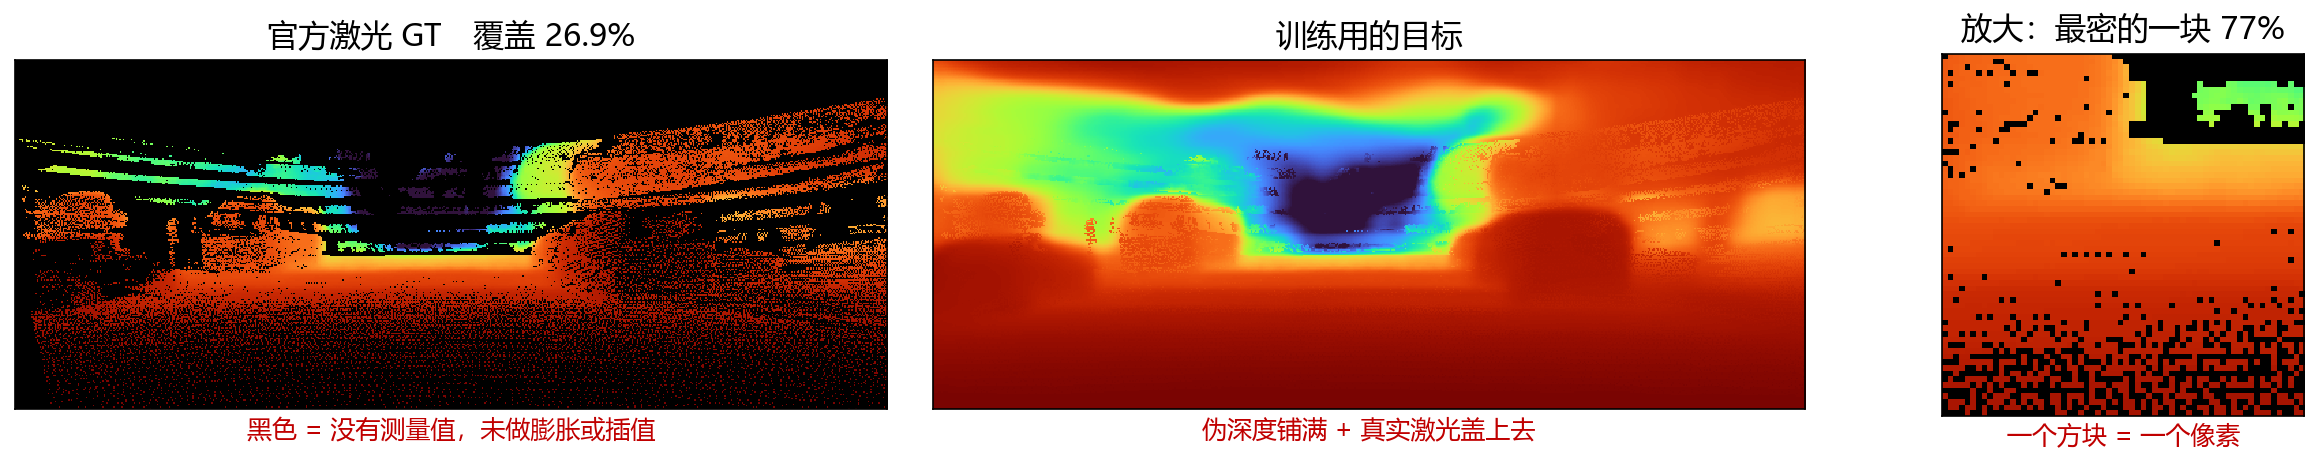
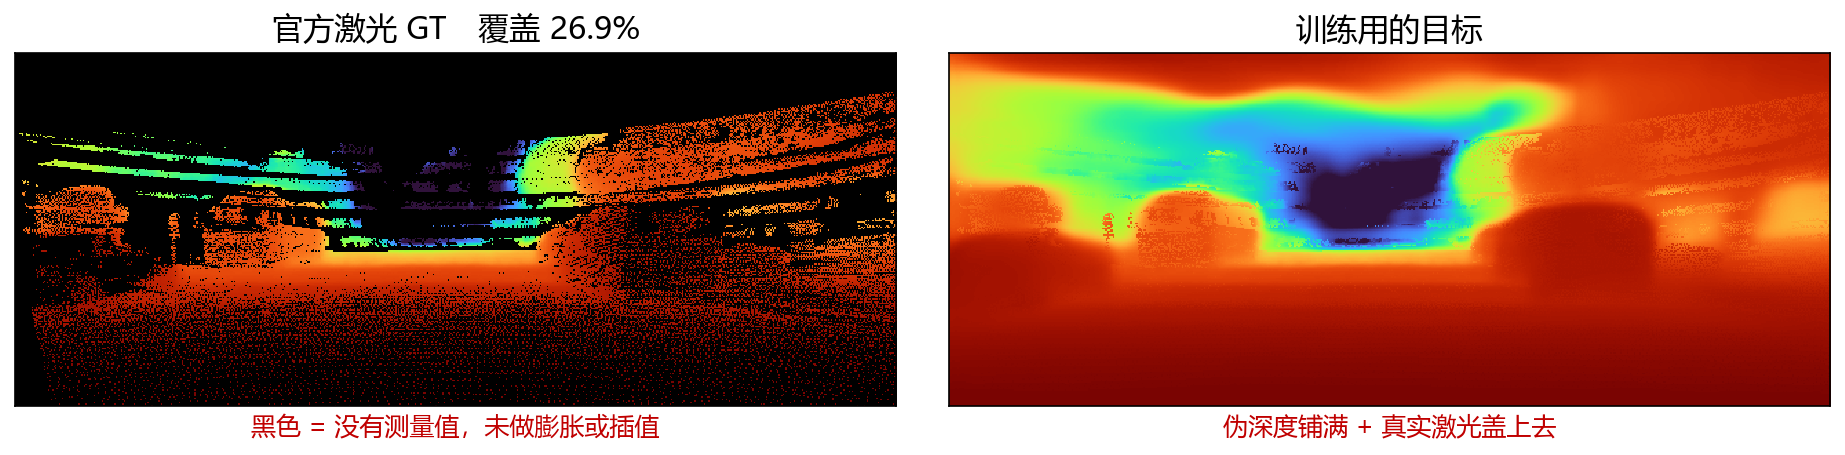
Drop the pixel zoom, and the conclusion that pointed at it
The panel showed that the densest block is 77% lidar, which the body text of
the slide already states in words. Removing it left the conclusion bar saying
"zoomed to the pixel, the difference is visible at a glance" under a figure
that no longer zooms.

diff --git a/docs/figures/build_slide_variants.py b/docs/figures/build_slide_variants.py
@@ -63,7 +63,10 @@ def metric_chain_slide():
     ax.set_title("热像输入", fontsize=15, pad=7)
 
     ax2 = fig.add_subplot(gs[0, 1])
-    ax2.imshow(y, cmap="viridis", vmin=0, vmax=1, interpolation="nearest")
+    # Same colour map as the panels either side: near red, far blue. The scale
+    # differs (0 to 1, not metres) and that is what the caption is for; the
+    # direction must not.
+    ax2.imshow(y, cmap="turbo_r", vmin=0, vmax=1, interpolation="nearest")
     ax2.set_title("网络直接输出", fontsize=15, pad=7)
     ax2.set_xlabel("稠密，0 到 1，没有单位", fontsize=12, color="#C00000", labelpad=4)
 
@@ -100,16 +103,10 @@ def gt_density_slide():
     lo, hi = np.percentile(completed, [2, 98])
     depth_kw = dict(cmap="turbo_r", vmin=lo, vmax=hi, interpolation="nearest")
 
-    size = 64
-    counts = np.add.reduceat(
-        np.add.reduceat(real.astype(np.int32),
-                        np.arange(0, real.shape[0], size), axis=0),
-        np.arange(0, real.shape[1], size), axis=1)
-    by, bx = np.unravel_index(counts.argmax(), counts.shape)
-    window = (slice(by * size, by * size + size), slice(bx * size, bx * size + size))
-
-    fig = plt.figure(figsize=(16.0, 3.55), dpi=150)
-    gs = fig.add_gridspec(1, 3, width_ratios=[1.6, 1.6, 1], wspace=0.06,
+    # 两格：官方 GT 与训练目标。像素级放大那一格拿掉了 —— 它证明的「最密的一块
+    # 有 77%」这句话，页面正文里已经直接写着了，一格图只是把同一句话再说一遍。
+    fig = plt.figure(figsize=(12.2, 3.55), dpi=150)
+    gs = fig.add_gridspec(1, 2, wspace=0.06,
                           left=0.004, right=0.996, top=0.79, bottom=0.11)
 
     ax = fig.add_subplot(gs[0, 0])
@@ -126,18 +123,11 @@ def gt_density_slide():
     ax2.set_xlabel("伪深度铺满 + 真实激光盖上去", fontsize=12,
                    color="#C00000", labelpad=4)
 
-    ax3 = fig.add_subplot(gs[0, 2])
-    ax3.imshow(np.zeros((size, size)), cmap="gray", vmin=0, vmax=1,
-               interpolation="nearest")
-    ax3.imshow(np.where(real[window], lidar[window], np.nan), **depth_kw)
-    ax3.set_title(f"放大：最密的一块 {real[window].mean():.0%}", fontsize=15, pad=7)
-    ax3.set_xlabel("一个方块 = 一个像素", fontsize=12, color="#C00000", labelpad=4)
-
-    for axis in (ax, ax2, ax3):
+    for axis in (ax, ax2):
         axis.set_xticks([]); axis.set_yticks([])
     out = "slide_gt_density.png"
     fig.savefig(out, bbox_inches="tight", facecolor="white")
-    print(f"写入 {out}   整帧 {coverage:.1%}  最密块 {real[window].mean():.1%}")
+    print(f"写入 {out}   整帧覆盖 {coverage:.1%}")
 
 
 if __name__ == "__main__":

diff --git a/tools/build_report_20260921.py b/tools/build_report_20260921.py
@@ -324,15 +324,14 @@ def target(prs):
     header(slide, "训练目标", "官方 GT 覆盖约四分之一，训练用的那张是补出来的")
     picture = FIGURES / "slide_gt_density.png"
     if picture.is_file():
-        slide.shapes.add_picture(str(picture), Inches(MARGIN), Inches(1.60),
-                                 width=Inches(BODY_W))
-    write(textbox(slide, MARGIN, 4.32, BODY_W, 1.9), [
+        fit_height(slide, picture, top=1.58, height=2.95)
+    write(textbox(slide, MARGIN, 4.70, BODY_W, 1.7), [
         "整帧覆盖 26.9%，但激光集中在路面：最密的一块有 76.6%，天空一个点都没有。"
         "所以官方 GT 看着像稠密的，在有结构的地方它确实接近稠密。",
-        ("训练用的是右上那张：伪深度铺满，再把真实激光盖上去。两者是不同的东西。",
+        ("训练用的是右边那张：伪深度铺满，再把真实激光盖上去。两者是不同的东西。",
          {"colour": GREY, "size": 12}),
     ], size=13, space_after=7)
-    conclusion(slide, "放大到像素级，稀疏与补全的差别一眼可见")
+    conclusion(slide, "官方 GT 只在有结构的地方接近稠密；训练用的那张是补出来的")
 
 
 def build(path: Path) -> None:
